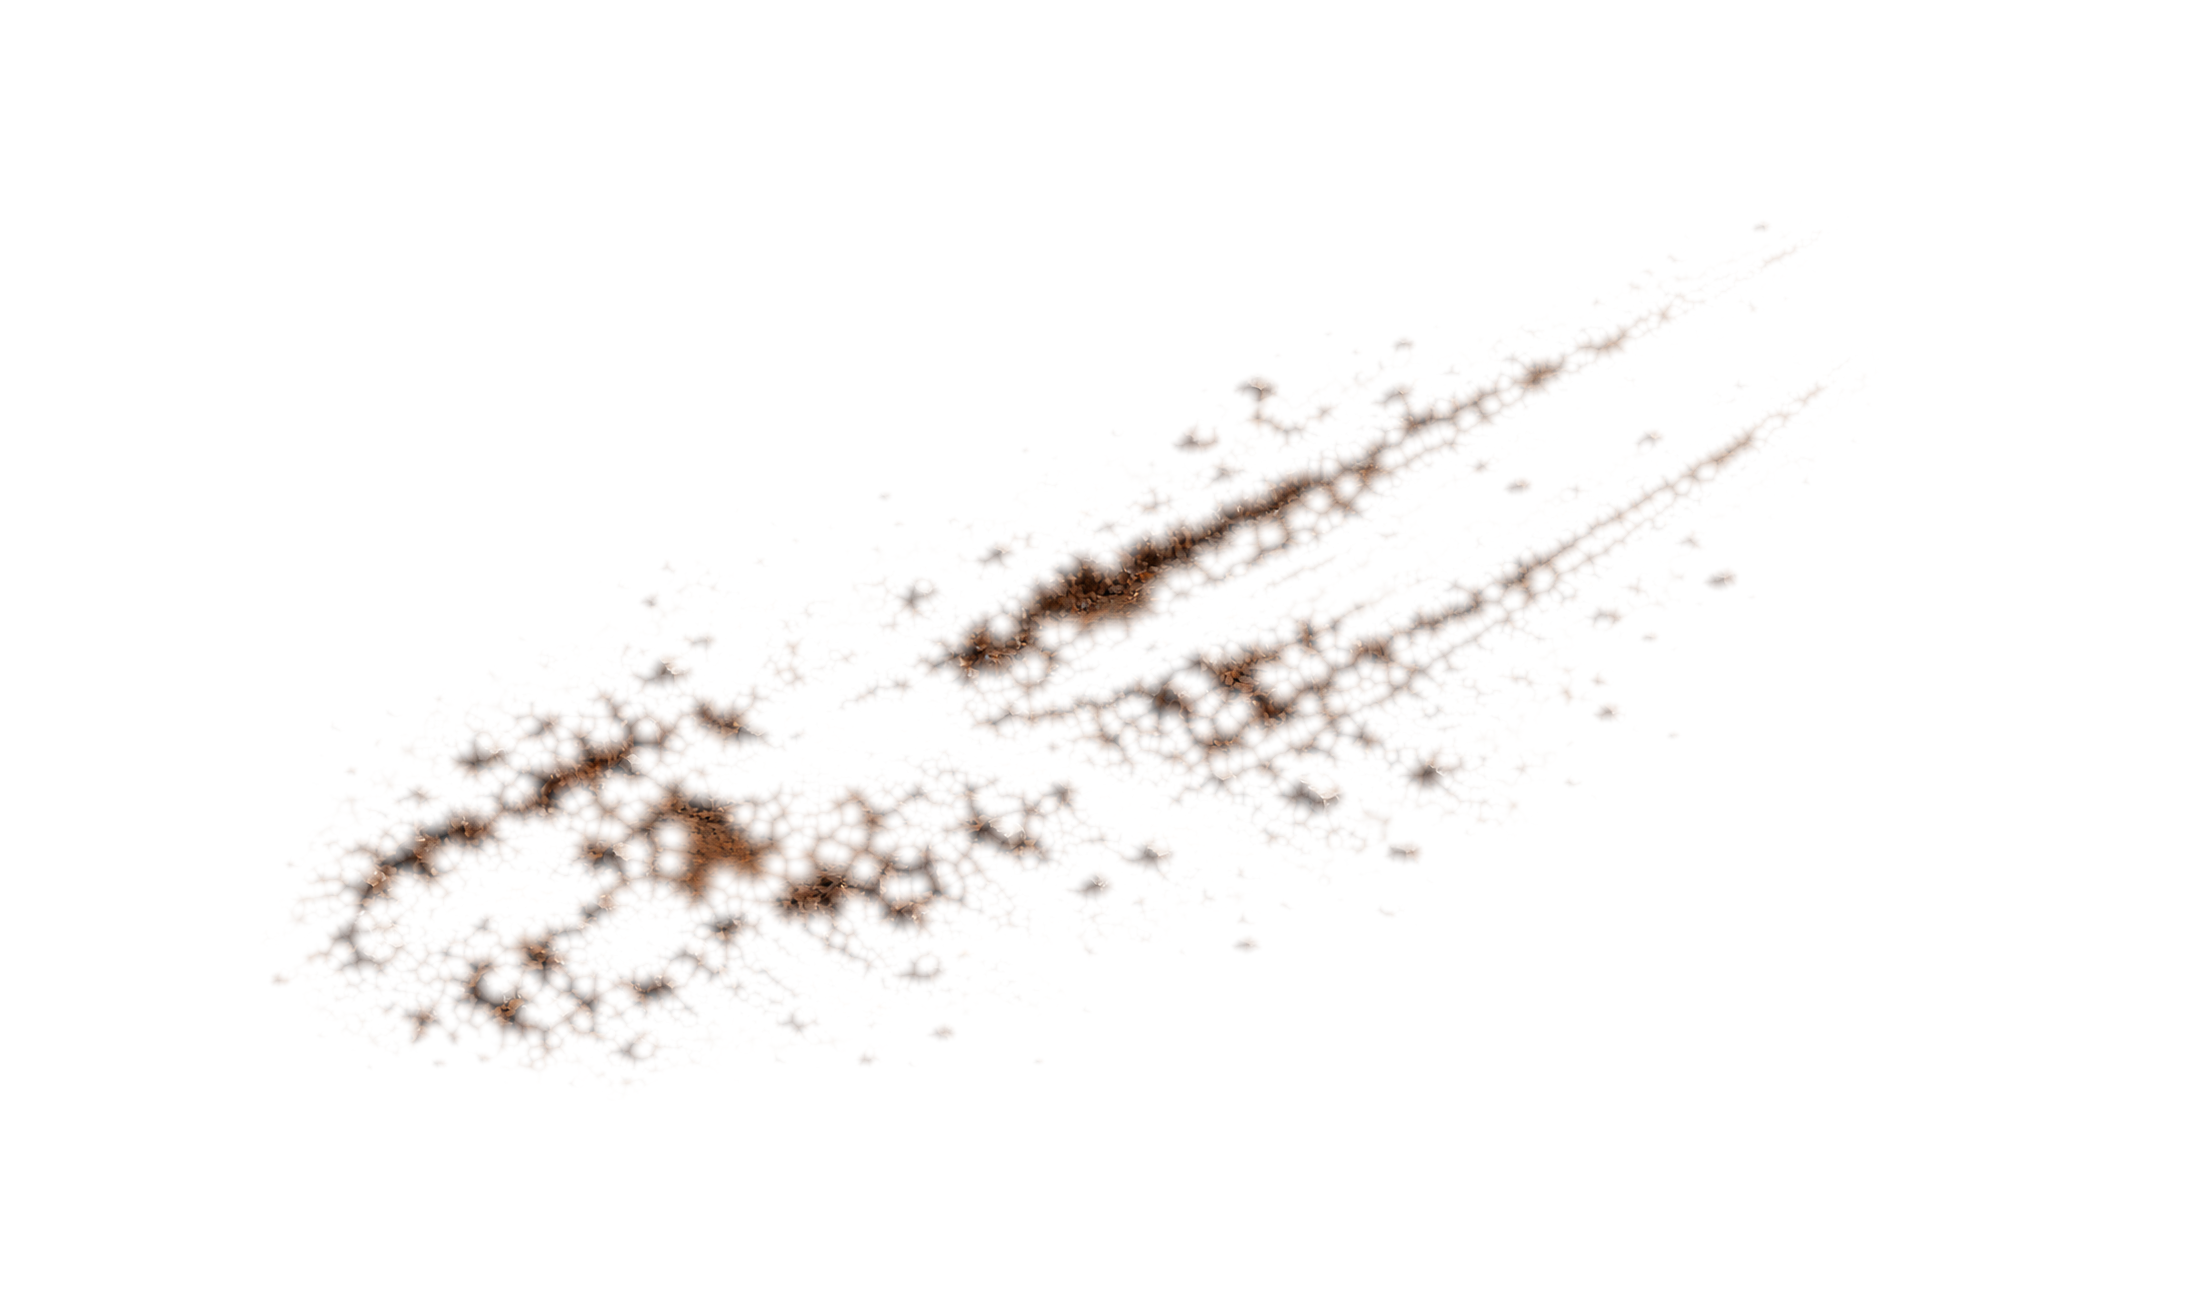
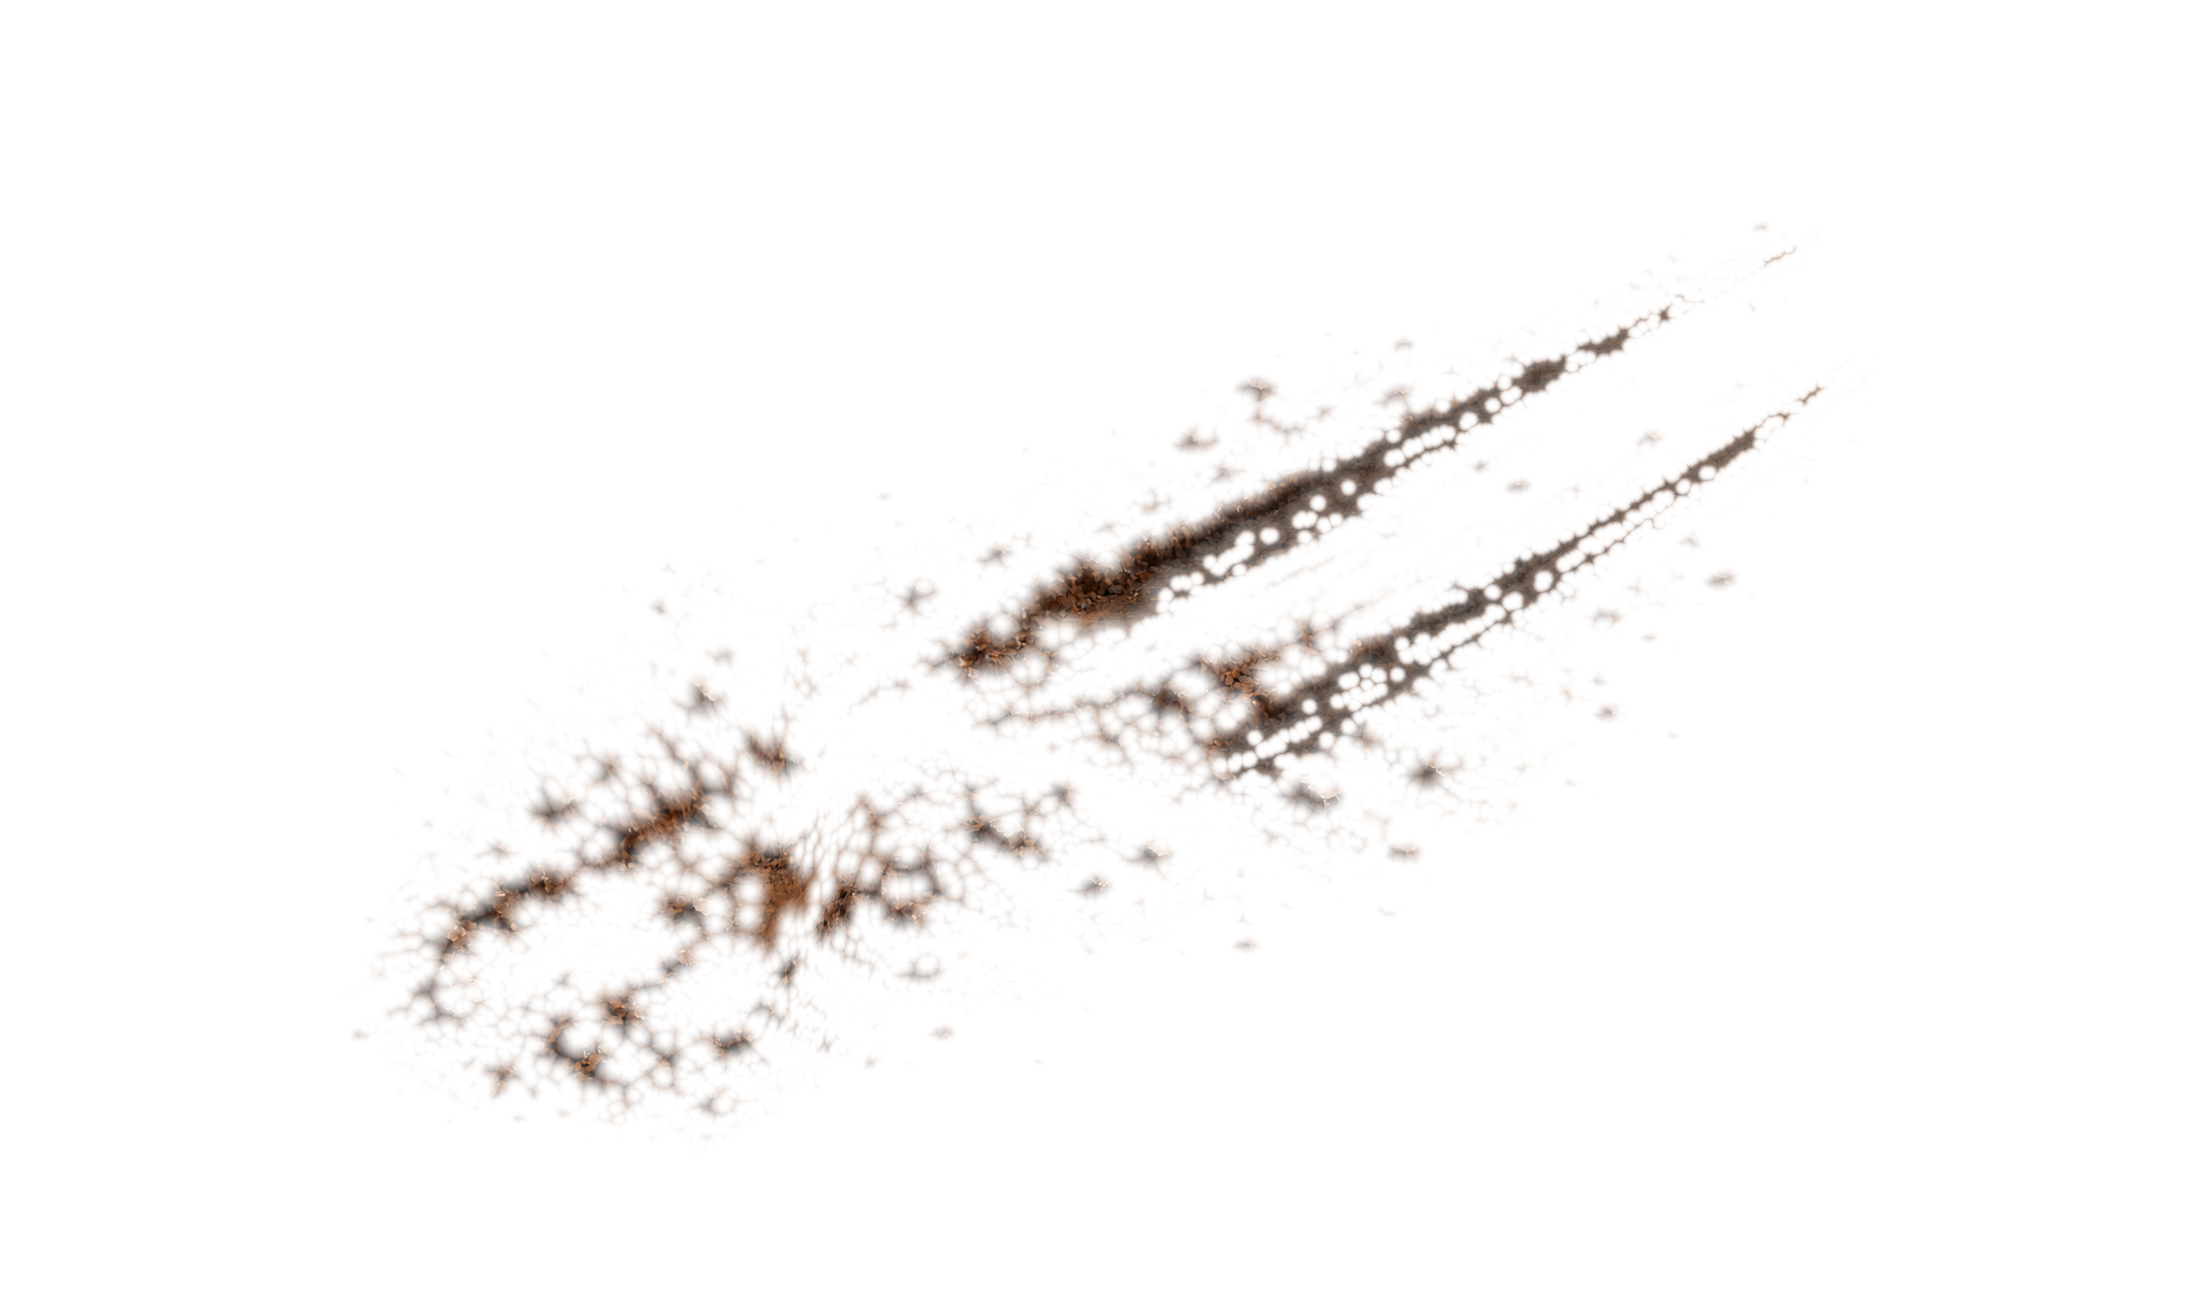
Correct forward soil registration and strengthen rear skid channels

diff --git a/README.md b/README.md
@@ -154,38 +154,59 @@ authorization.
 
 ### Disturbed earth and skid marks (feature branch, pending merge)
 
-The owner-supplied [ground-treatment PNG](assets/environment/exterior/disturbed_earth_skid_marks_v1.png)
-is preserved byte-for-byte: 2200 x 1300, 8-bit RGBA, SHA-256
+One decorative root-level DisturbedEarth Sprite2D uses the
+[ground-treatment PNG](assets/environment/exterior/disturbed_earth_skid_marks_v1.png)
+at top-left `(-1334,-1122)`, scale `(1,1)`, zero rotation, `centered = false`.
+Effective draw order remains terrain Z=-11, ground treatment Z=-2, approved
+shadow Z=-1, hull Z=0; gameplay Y sorting is unchanged. Hide DisturbedEarth for
+visual rollback. Separate localized debris, salvage, hatch animation and
+foreground occlusion remain deferred.
+
+#### Initial owner review and correction (2026-11-01)
+
+Owner gameplay review of `eee70da59aa0cfbe26b518517cdc5502b9ce8855`: **4/6 PASS**.
+Alignment and visual intensity failed; skid placement, terrain blending, hatch
+and gameplay clearance, and performance passed. Performance is an owner
+observation, not a benchmark. The screenshot shows a detached ridge above/left
+of the nose; best-supported explanation is the original broad-patch guide did
+not register that contour to the actual grounded hull. Global translation would
+also displace the accepted rear furrows, so only the forward artwork is warped.
+
+Original 2200 x 1300 RGBA PNG remains in Git at that implementation, SHA-256
[1 lines of base64/hex data omitted]
-CRC/decode checks found alpha 0..252, 2,449,649 transparent pixels and 410,351
-partially transparent pixels. Nonzero alpha bounds are `[260,216)..[1879,1101)`;
-alpha >=128 bounds are `[344,369)..[1551,1028)`.
+Corrected PNG has SHA-256
[1 lines of base64/hex data omitted]
+No scene or sprite transform changed. Registration remains world = source +
+`(-1334,-1122)`; the corrected alpha bounds `[340,216)..[1879,1156)` map to
+world `[-994,-906)..[545,34)`. Canvas size is unchanged; scaling uses the visible
+footprint rather than matching the ship's 0.70 scale or canvas dimensions.
 
-One noncolliding root-level DisturbedEarth Sprite2D uses top-left position
-`(-1334,-1122)`, scale `(1,1)`, zero rotation and `centered = false`.
-This scales the actual visible 1619 x 885 footprint against the hull's roughly
-1228 x 610 solid silhouette, rather than matching canvas sizes or reusing 0.70.
-Source broad-patch guide `(750,850)` maps to world `(-584,-272)`, under the
-nose/fuselage, while the upper-right furrow guide `(1800,300)` maps to
-`(466,-822)`, behind the engines. These are approximate visual guides, not
-surveyed contact points. Visible world bounds are `[-1074,-906)..[545,-21)`.
-The irregular furrows follow the same lower-left/upper-right direction as the
-hull; exact perspective alignment requires the owner's gameplay screenshot.
+Deterministic correction uses source pixels and cubic smoothstep S(a,b,v):
 
-Effective draw order is terrain Z=-11, ground treatment Z=-2, approved contact
-shadow Z=-1, hull Z=0, with existing gameplay Y sorting preserved. The overlay
-cannot occlude the hatch or player and introduces no movement/construction
-blocking; visual ground contrast around the hatch and spawn still needs review.
-Placement and apparent opacity are provisional: original PNG alpha is retained
-with default white/full Sprite2D modulation. Ship, locked shadow strength,
-collisions, hatch, spawn, camera, Ferrite, terrain and gameplay are unchanged.
-Hide DisturbedEarth for visual rollback. Localized separate debris remains a
-later phase, alongside the previously deferred salvage and occlusion work.
+- Forward displacement is `(80,55) * (1-S(650,900,x)) * S(550,800,y)`.
+  Inverse mapping uses 16 fixed-point iterations and premultiplied-alpha bilinear
+  sampling, evaluated in X=230..899, Y=550..1159. This tucks the nose-side ridge
+  inward, tapering continuously to the untouched rear/hatch region.
+- Rear contrast uses distance d to segments `(1030,650)-(1820,245)` and
+  `(1250,755)-(1850,375)`, without moving their coordinates. Channel mask is
+  `1-S(14,48,d)`; ridge mask is `S(24,36,d)*(1-S(48,72,d))`. Both are gated by
+  `S(1050,1200,x)*S(8,56,alpha)` in X=1050..1919, Y=180..859.
+  RGB multiplier is `1-0.50*channel*gate+0.12*ridge*gate`; alpha adds
+  `0.55*channel*gate*(255-alpha)`, rounded/clamped to bytes. There is no blanket
+  opacity change or new painted support in the rear; alpha <=8 is unchanged.
 
-Validation is focused and non-native: PNG integrity, registration arithmetic,
-resource references, scene layering and exact baseline preservation. No Godot
-import, engine, gameplay or graphical verification was performed. Ready for
-owner-controlled gameplay screenshot review; no visual acceptance is claimed.
+Focused static checks pass: PNG CRC/decode, unchanged RGBA dimensions, alpha
+0..253 with 2,459,740 transparent and 400,260 partially transparent pixels;
+221,968 forward pixels and 72,206 rear pixels changed only inside the stated
+regions. Both channel cores darken and gain alpha. Source rectangle
+X=900..1000, Y=900..1110 (hatch/spawn/approach) is pixel-identical. Entire scene,
+ship/shadow assets, three collisions, hatch, spawn, camera, construction,
+Ferrite, terrain and gameplay remain unchanged; existing owner files preserved.
+
+Documentation-sync is scoped to this record. Agent checks are non-native;
+Godot, imports, native tests and graphical gameplay verification were not run.
+Exact nose fit, contrast against Weathered Earth and terrain blending require
+owner-controlled graphical retest. **Retest pending; no final acceptance.**
 
 ### Final PR #105 owner acceptance (2026-11-01)
 
